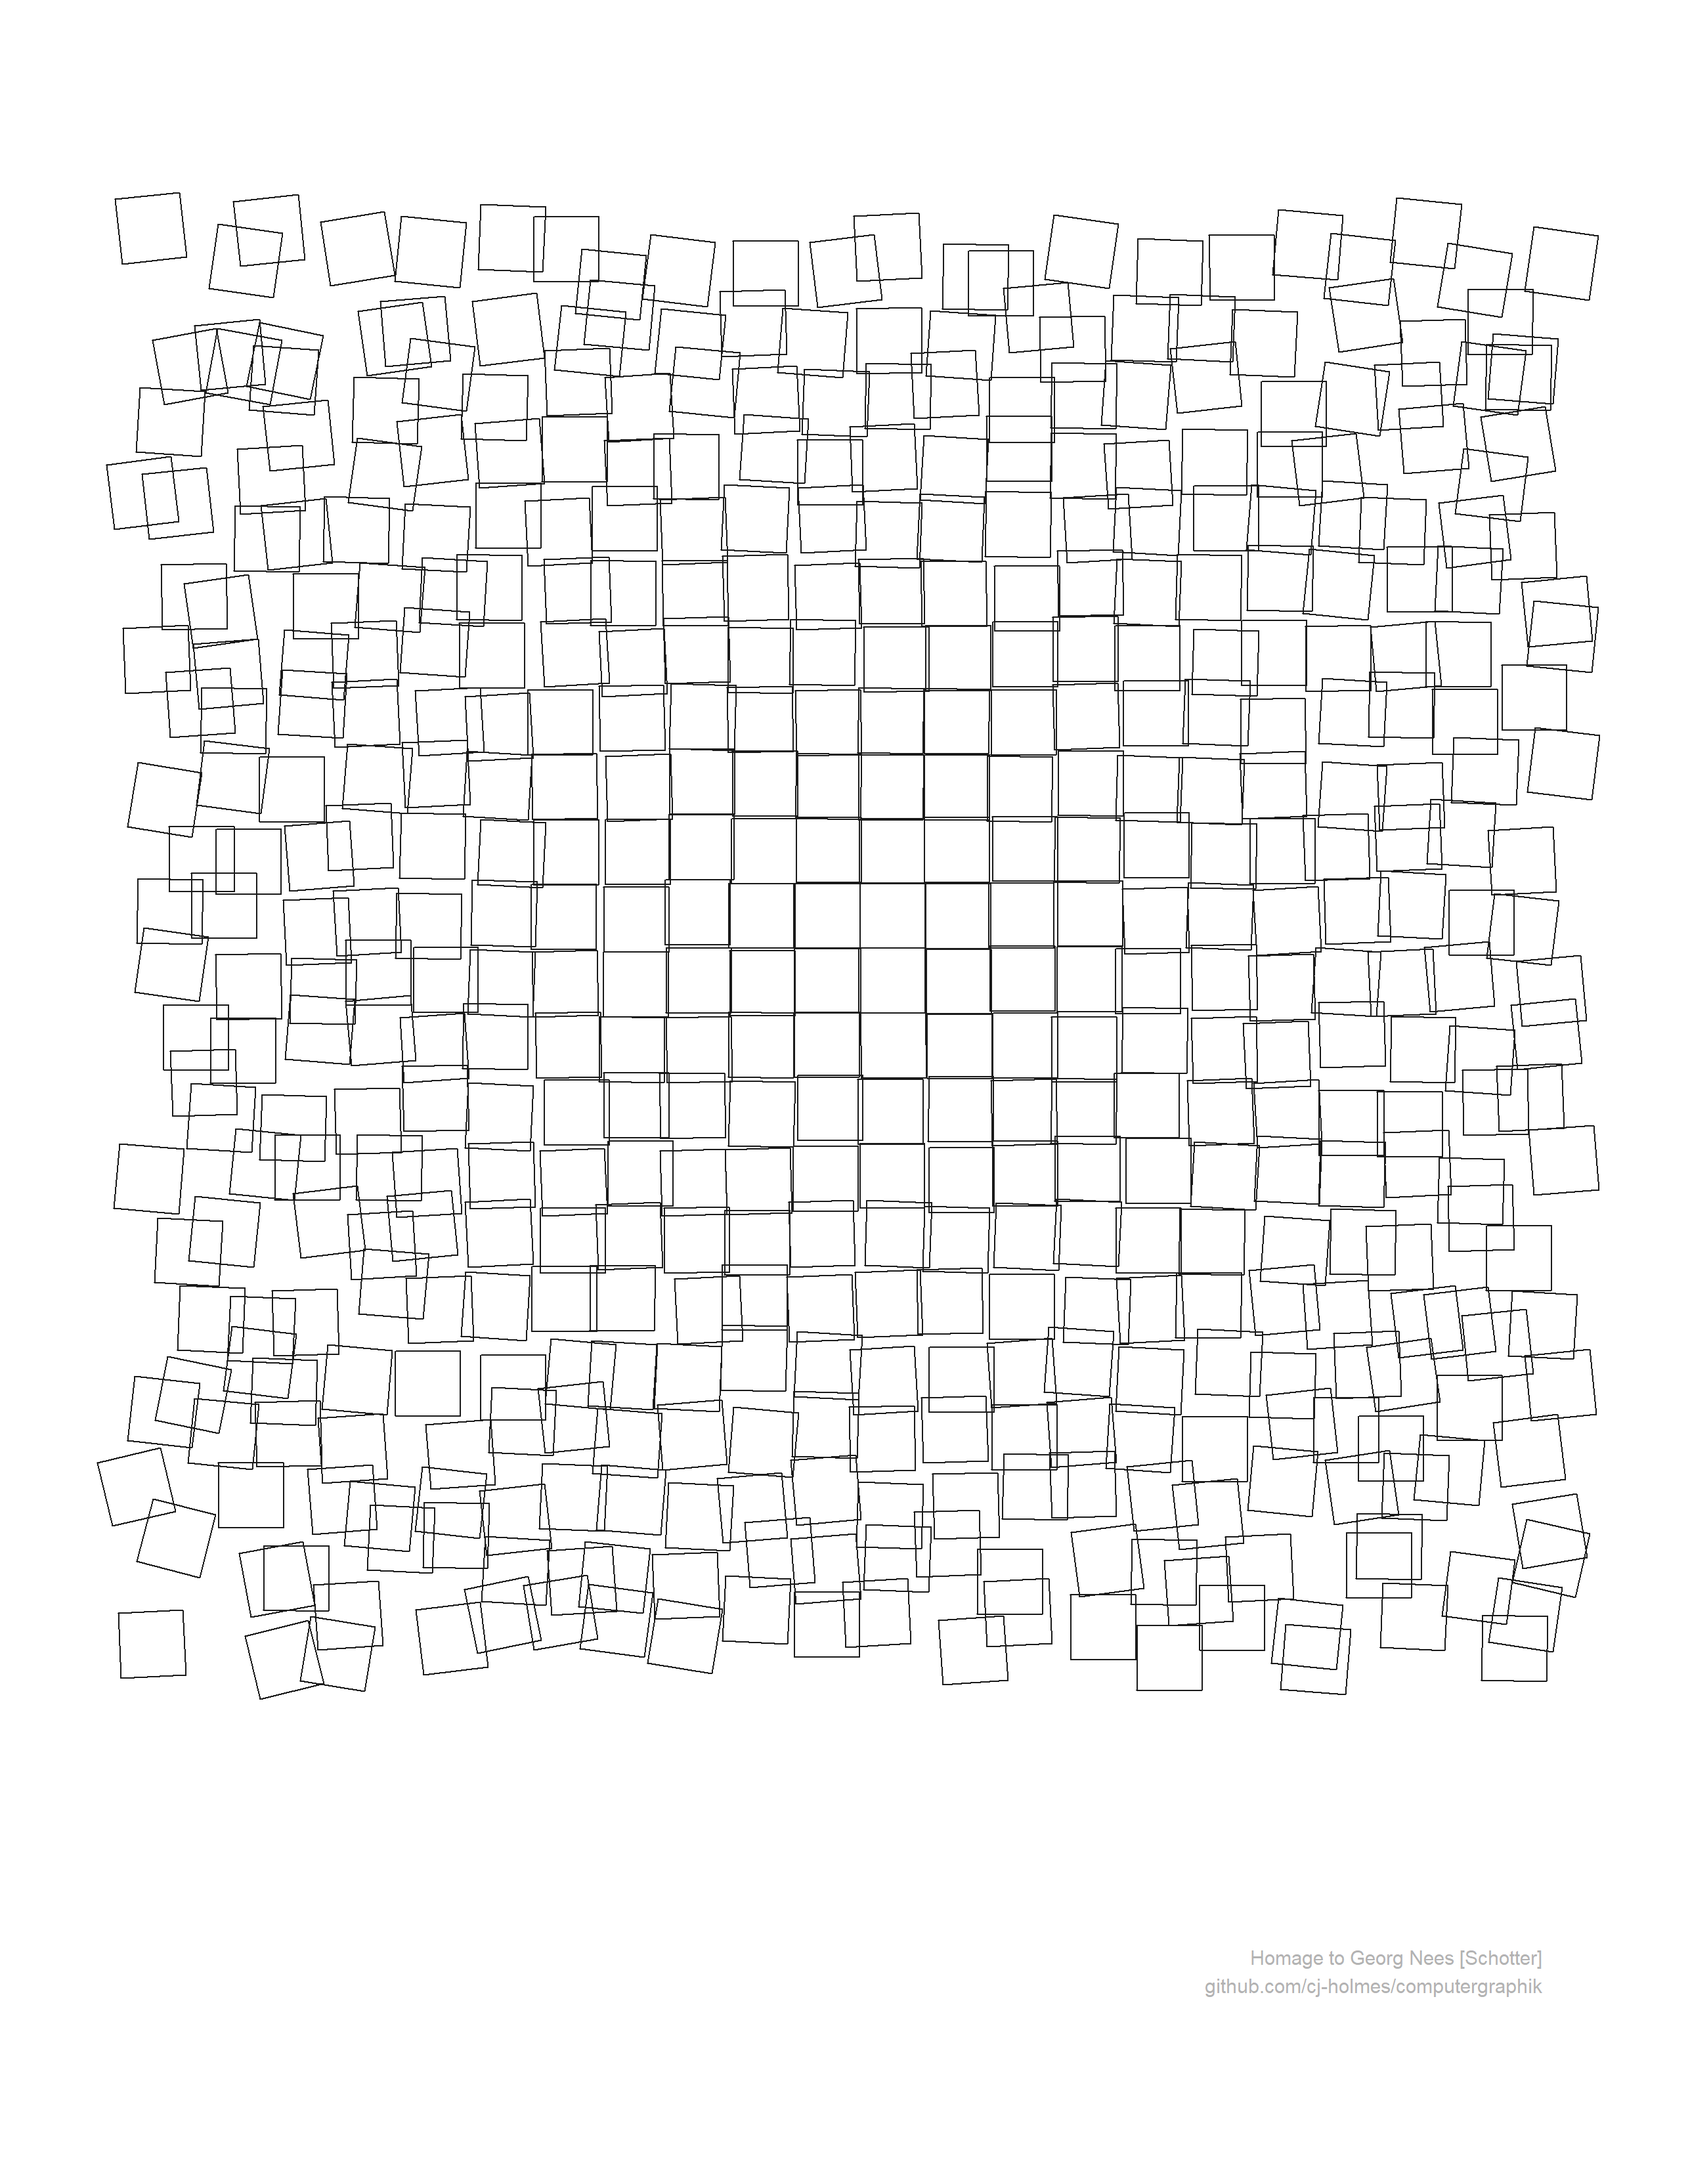
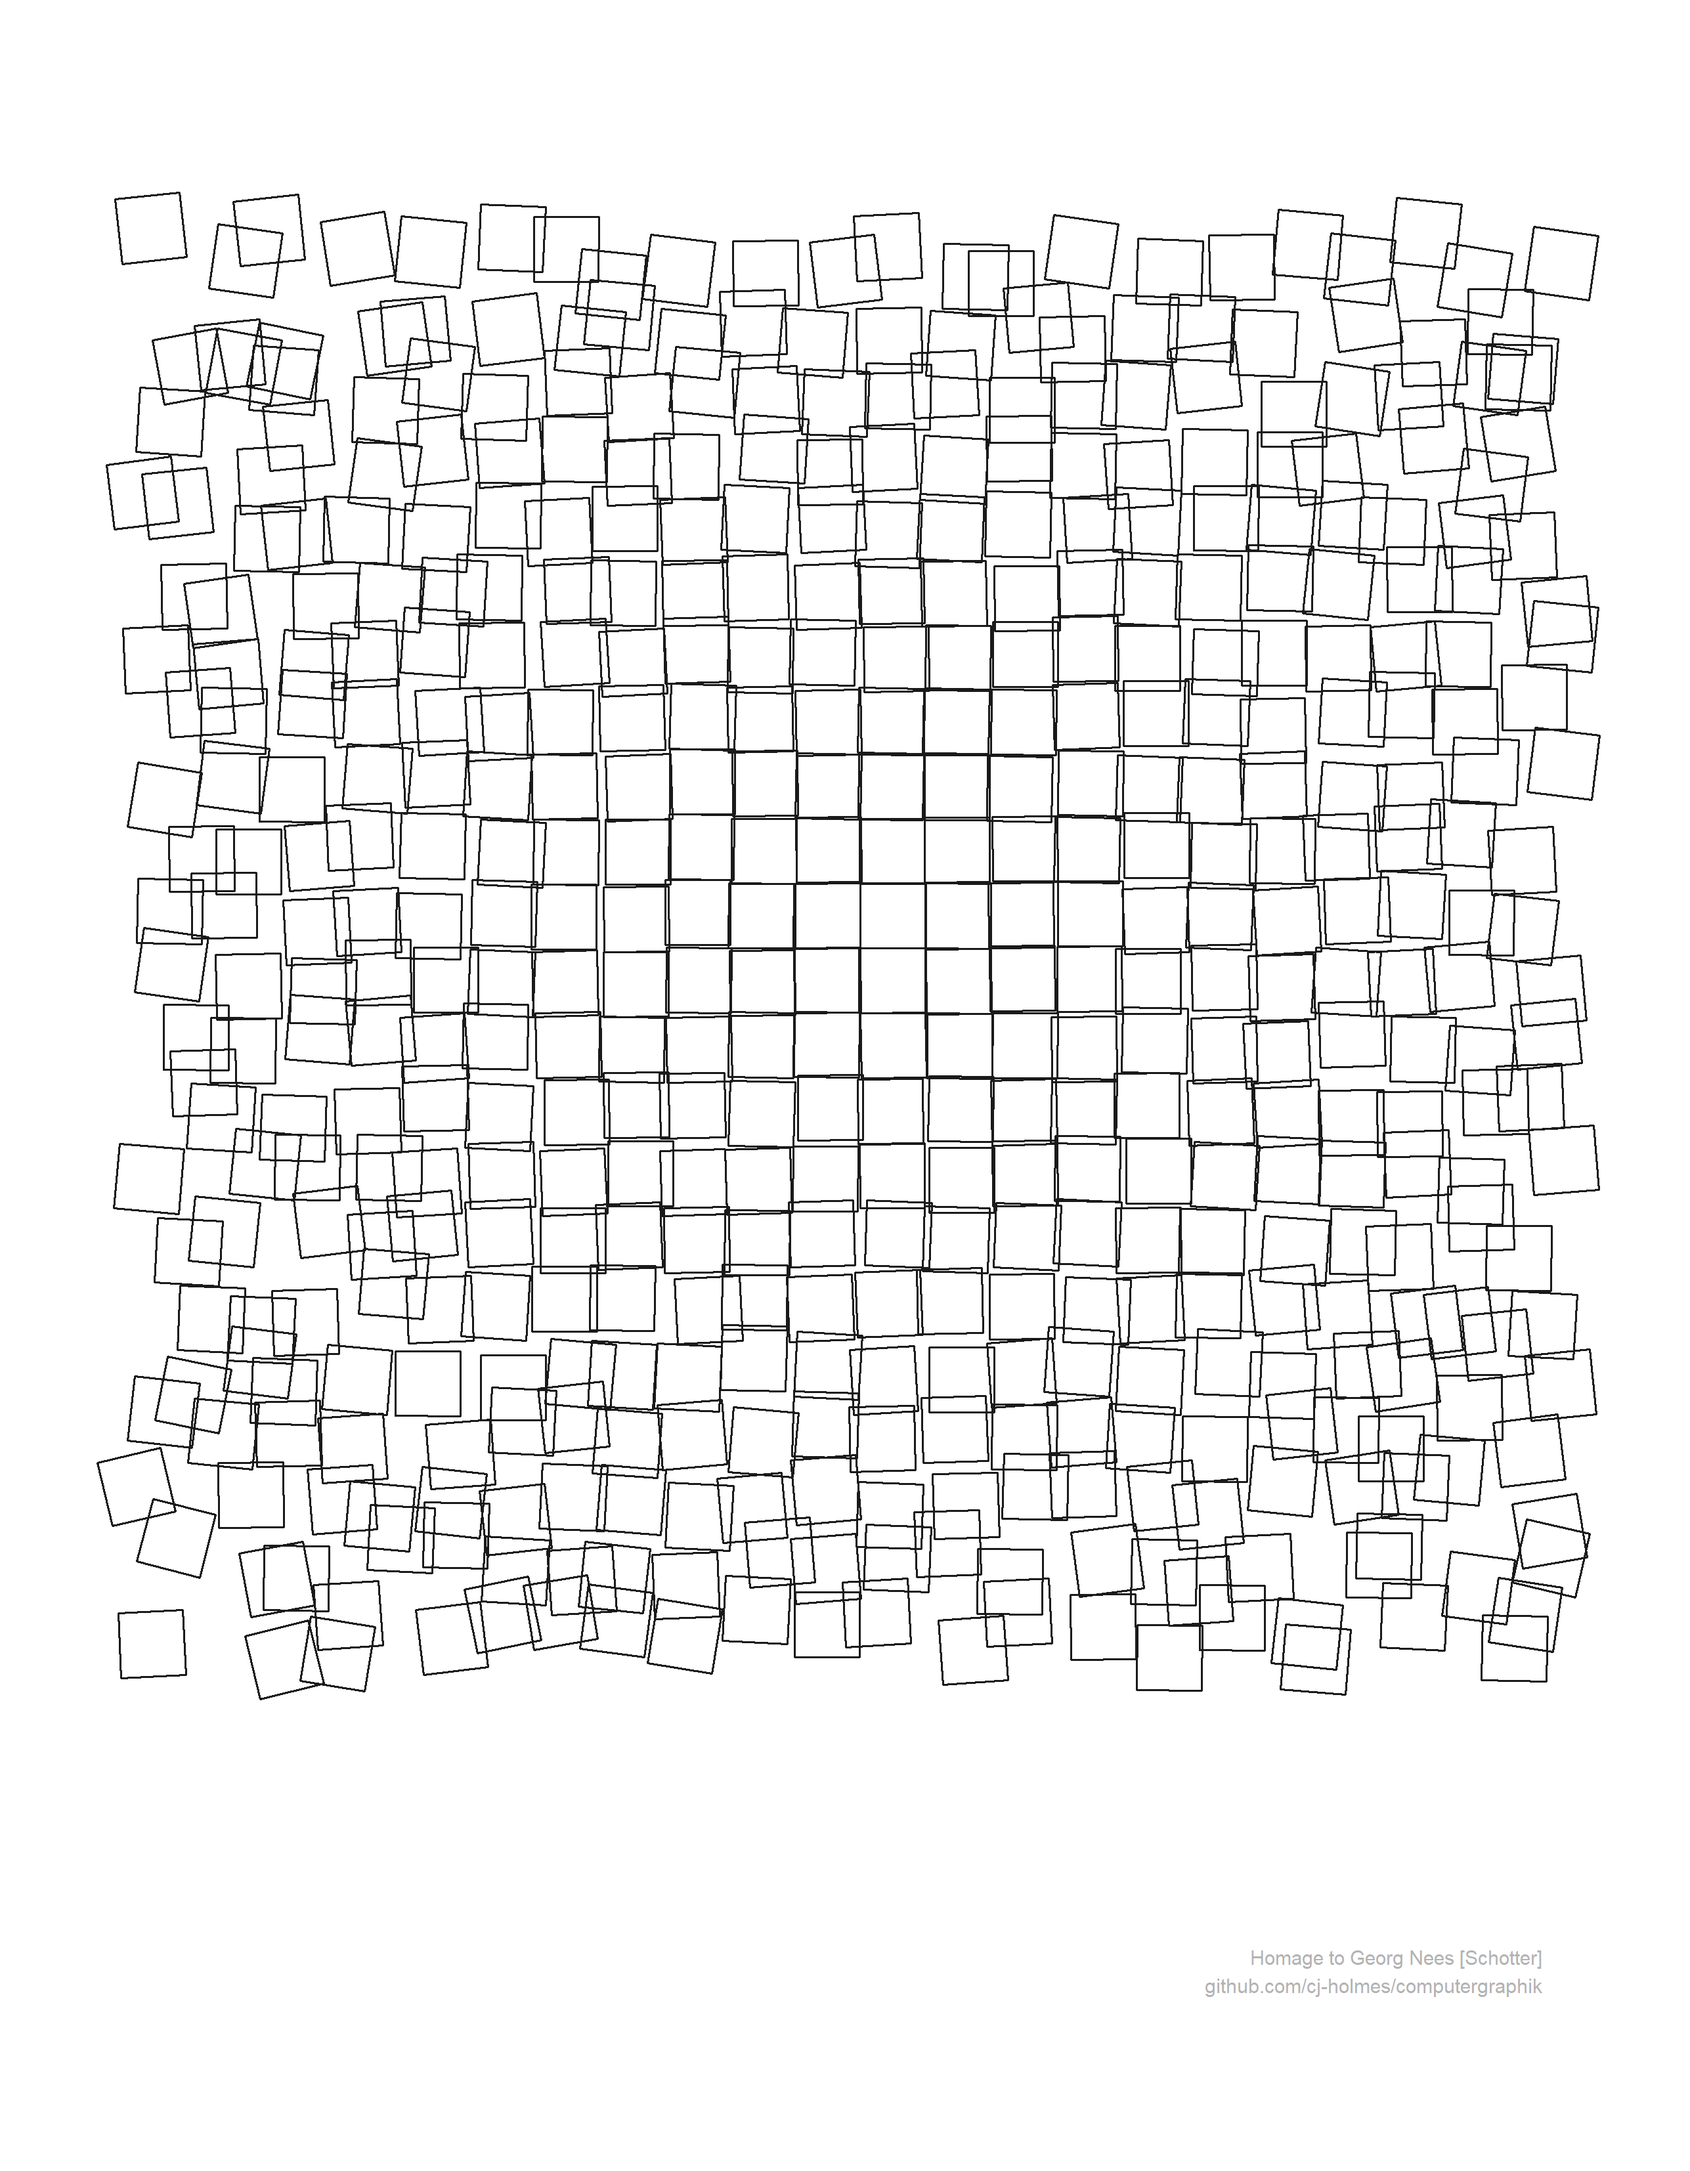
Add new variation and tidy up code

diff --git a/README.md b/README.md
@@ -11,8 +11,7 @@ My first attempt is at reproducing [Georg Nees 1968-1970
 ***Schotter***](https://collections.vam.ac.uk/item/O221321/schotter-print-nees-georg/)
 (Gravel).
 
-<img src="gravel/original/out/gravel.png" width="400"/>
-
 Along with some variations on the same theme…
 
-<img src="gravel/variations/out/gravel-a.png" width="400"/><img src="gravel/variations/out/gravel-b.png" width="400"/>
+<img src="gravel/original/out/gravel.png" width="400"/><img src="gravel/variations/out/gravel-a.png" width="400"/>
+<img src="gravel/variations/out/gravel-b.png" width="400"/><img src="gravel/variations/out/gravel-c.png" width="400"/>
